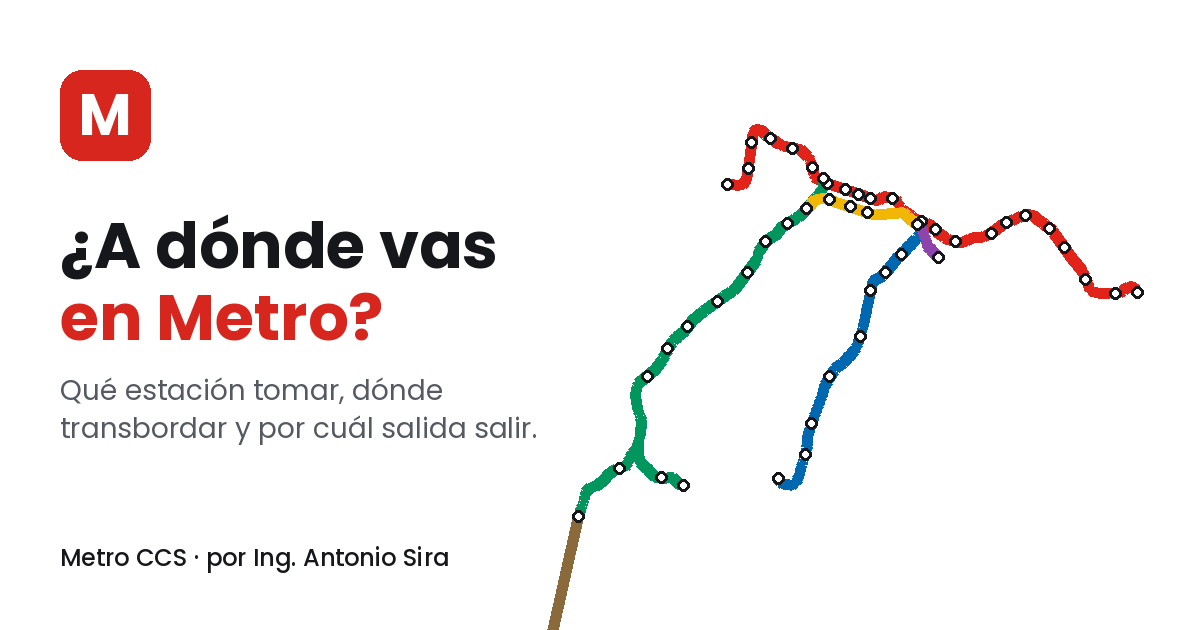
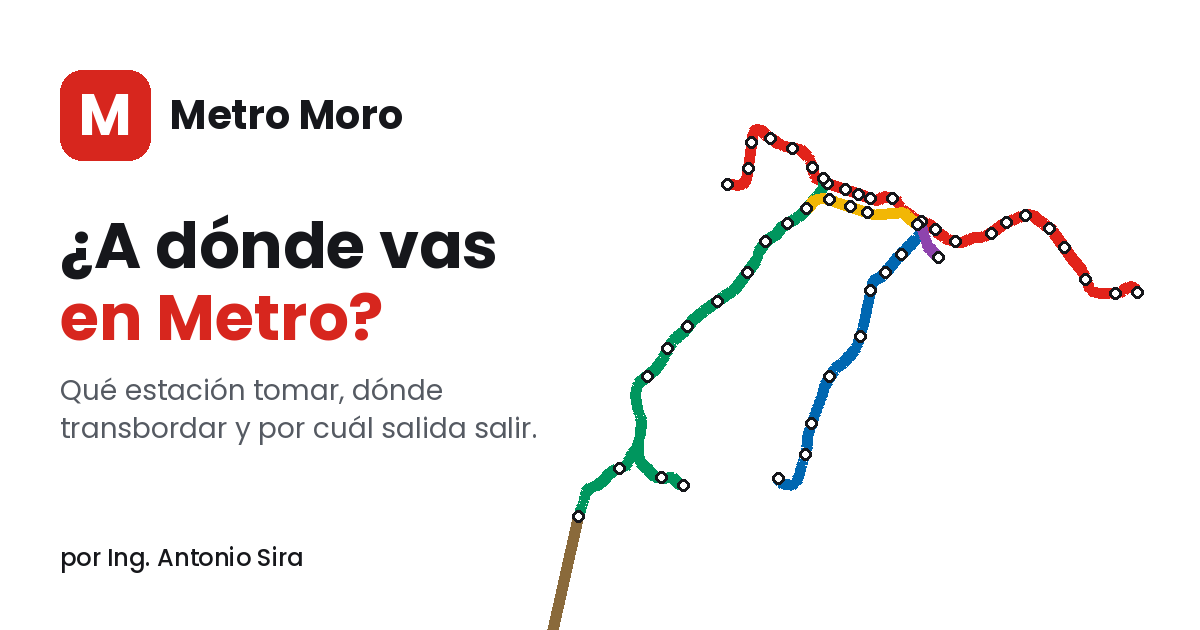
Add files via upload

Changed region(s): [[0.1233, 0.1508, 0.3392, 0.2111], [0.0308, 0.8746, 0.37, 0.9048]]

diff --git a/app.js b/app.js
@@ -35,7 +35,7 @@ const chip=L=>`<span class="chip${LINES[L].dark?" y":""}" style="background:${LI
 const chips=n=>[...stationLines[n]].map(chip).join(" ");
 function pickAd(stations){const ads=CFG.ads||[];if(!ads.length)return null;const m=ads.filter(a=>a.stations&&a.stations.some(s=>stations.includes(s)));const pool=m.length?m:ads.filter(a=>!a.stations);return pool.length?pool[Math.floor(Math.random()*pool.length)]:null;}
 const LOGO=`<svg viewBox="-6 -6 112 112" aria-hidden="true"><g fill="none" stroke="currentColor" stroke-width="5" stroke-linecap="square"><rect x="0" y="0" width="100" height="100"/><circle cx="50" cy="50" r="50"/><path d="M0 0 L100 100 M100 0 L0 100 M50 0 L0 100 M50 0 L100 100"/></g></svg>`;
-const SIGN=`<span class="sign">${LOGO}<span><b>Ing. Antonio Sira</b><small>Creador de Metro CCS</small></span></span>`;
+const SIGN=`<span class="sign">${LOGO}<span><b>Ing. Antonio Sira</b><small>Creador de Metro Moro</small></span></span>`;
 const COAUTH=`<div class="coauth">Coautor: <b>Claude</b> (IA de Anthropic) · diseño y programación</div>`;
 function adHTML(a){if(!a)return"";
   if((a.url||"").startsWith("mailto:"))return `<a class="ad brand" target="_blank" rel="noopener" href="${esc(a.url)}"><span class="bl">${LOGO}</span><span class="bt"><span class="ap">Publicidad · Ing. Antonio Sira</span><span class="at">${esc(a.title)}</span><span class="ax">${esc(a.text||"")}</span></span>${a.cta?`<span class="ac">${esc(a.cta)}</span>`:""}</a>`;
@@ -310,7 +310,7 @@ async function share(r){
   if(!r.walkOnly){for(const g of r.legs){if(g.type==="walk"&&g.first)txt+=`\n• Entra en ${g.to}${g.ex&&g.ex.name?" por la salida "+g.ex.name:""}`;else if(g.type==="ride")txt+=`\n• ${LINES[g.line].name} dirección ${g.dir} hasta ${g.to}`;else if(g.type==="walk"&&g.last)txt+=`\n• Sal${g.ex&&g.ex.name?" por la salida "+g.ex.name:""} y camina ${fmt(g.min)}`;}}
   else txt+=`\n• Mejor ve caminando`;
   txt+=`\n\nVe la ruta en el mapa: ${u.toString()}`;
-  if(navigator.share){try{await navigator.share({title:"Metro CCS",text:txt});return;}catch(e){if(e.name==="AbortError")return;}}
+  if(navigator.share){try{await navigator.share({title:"Metro Moro",text:txt});return;}catch(e){if(e.name==="AbortError")return;}}
   location.href="https://wa.me/?text="+encodeURIComponent(txt);
 }
 
@@ -422,7 +422,7 @@ $("mlist").onclick=e=>{const r=e.target.closest("[data-m]");if(!r)return;const m
   if(m==="dl"){$("menu").classList.remove("on");downloadMap();}
   if(m==="ios"){$("menu").classList.remove("on");$("iosTip").style.display="block";$("welcome").classList.add("on");}
   if(m==="net"){$("menu").classList.remove("on");clearDest();fitAll();}
-  if(m==="ads")location.href=CONTACT+"?subject="+encodeURIComponent("Publicidad en Metro CCS");
+  if(m==="ads")location.href=CONTACT+"?subject="+encodeURIComponent("Publicidad en Metro Moro");
   if(m==="clr"){store.set("home",null);store.set("work",null);store.set("recents",[]);toast("Listo, borrado.");$("menu").classList.remove("on");render(true);}
 };
 

diff --git a/index.html b/index.html
@@ -3,7 +3,7 @@
 <head>
 <meta charset="utf-8">
 <meta name="viewport" content="width=device-width,initial-scale=1,maximum-scale=1,viewport-fit=cover">
-<title>Metro CCS · Rutas del Metro de Caracas</title>
+<title>Metro Moro · Rutas del Metro de Caracas</title>
 <meta name="description" content="¿A dónde vas? Te digo qué estación del Metro de Caracas tomar, por cuál salida entrar y salir, y cuánto tardas.">
 <meta name="theme-color" content="#d7261e">
 <meta name="author" content="Ing. Antonio Sira, con Claude (Anthropic)">
@@ -13,9 +13,9 @@
 <meta name="apple-mobile-web-app-capable" content="yes">
 <meta name="mobile-web-app-capable" content="yes">
 <meta name="apple-mobile-web-app-status-bar-style" content="default">
-<meta name="apple-mobile-web-app-title" content="Metro CCS">
+<meta name="apple-mobile-web-app-title" content="Metro Moro">
 <meta property="og:type" content="website">
-<meta property="og:title" content="Metro CCS · ¿A dónde vas en Metro?">
+<meta property="og:title" content="Metro Moro · ¿A dónde vas en Metro?">
 <meta property="og:description" content="La ruta más rápida en el Metro de Caracas: qué estación tomar, dónde transbordar y por cuál salida salir.">
 <meta property="og:image" content="https://ingenieroantoniosira-cmd.github.io/metro-ccs/og.png">
 <meta property="og:image:width" content="1200">
@@ -164,7 +164,7 @@ h2{font-size:20px;margin:2px 0 10px}
 </div>
 
 <div class="full" id="menu">
-  <div class="ptop"><h2 style="flex:1;margin:0;padding-left:4px">Metro CCS</h2><button class="close" id="mclose">Cerrar</button></div>
+  <div class="ptop"><h2 style="flex:1;margin:0;padding-left:4px">Metro Moro</h2><button class="close" id="mclose">Cerrar</button></div>
   <div id="mlist" style="overflow-y:auto;flex:1;padding:0 16px calc(20px + var(--bot))"></div>
 </div>
 
@@ -181,9 +181,9 @@ h2{font-size:20px;margin:2px 0 10px}
 
 <div id="toast"></div>
 
-<script src="config.js?v=9"></script>
-<script src="data.js?v=9"></script>
+<script src="config.js?v=10"></script>
+<script src="data.js?v=10"></script>
 <script src="https://unpkg.com/maplibre-gl@4.7.1/dist/maplibre-gl.js"></script>
-<script src="app.js?v=9"></script>
+<script src="app.js?v=10"></script>
 </body>
 </html>

diff --git a/sw.js b/sw.js
@@ -1,5 +1,5 @@
-// Metro CCS · funciona sin señal
-const V="mccs-v9";
+// Metro Moro · funciona sin señal
+const V="mccs-v10";
 const SHELL=["./","index.html","app.js","data.js","config.js","manifest.webmanifest","icon-180.png","icon-192.png","icon-512.png",
  "https://unpkg.com/maplibre-gl@4.7.1/dist/maplibre-gl.js","https://unpkg.com/maplibre-gl@4.7.1/dist/maplibre-gl.css"];
 self.addEventListener("install",e=>{e.waitUntil(caches.open(V).then(c=>Promise.all(SHELL.map(u=>c.add(u).catch(()=>{})))));self.skipWaiting();});
